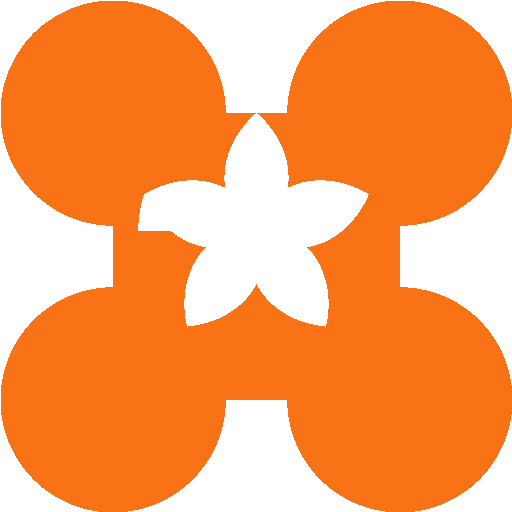
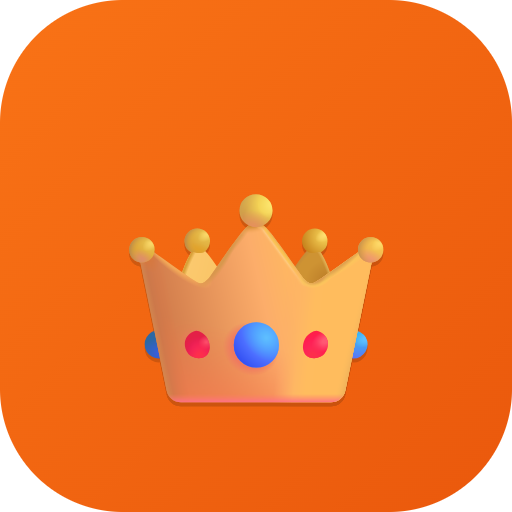
修复 iOS 卡顿、安装提示重复、更新 App 图标
- CSS: 移除 overscroll-behavior 和 -webkit-overflow-scrolling（导致 iOS 滚动卡顿）
- InstallPrompt: sessionStorage 改为 localStorage，关闭浏览器后不再重复弹窗
- PWA 图标: 重新设计为橙底皇冠图标，匹配"女王厨房"主题

diff --git a/小李厨房/src/components/layout/InstallPrompt.tsx b/小李厨房/src/components/layout/InstallPrompt.tsx
@@ -12,9 +12,12 @@ export default function InstallPrompt() {
   const [deferred, setDeferred] = useState<any>(null)
 
   useEffect(() => {
-    // Check if already in standalone mode
+    // Already in standalone mode (added to home screen) — don't show
     if (window.matchMedia('(display-mode: standalone)').matches) return
-    if (navigator.standalone) return
+    if ((navigator as any).standalone) return
+
+    // Already dismissed permanently
+    if (localStorage.getItem('install-dismissed')) return
 
     // Listen for Chrome beforeinstallprompt
     const handler = (e: Event) => {
@@ -24,13 +27,9 @@ export default function InstallPrompt() {
     }
     window.addEventListener('beforeinstallprompt', handler)
 
-    // Fallback: show after 3 seconds on Android (Huawei may not fire beforeinstallprompt)
+    // Fallback: show after 3 seconds on Android
     const isAndroid = /android/i.test(navigator.userAgent)
-    const timer = isAndroid ? setTimeout(() => {
-      if (!sessionStorage.getItem('install-dismissed')) {
-        setShow(true)
-      }
-    }, 3000) : undefined
+    const timer = isAndroid ? setTimeout(() => setShow(true), 3000) : undefined
 
     return () => {
       window.removeEventListener('beforeinstallprompt', handler)
@@ -51,7 +50,7 @@ export default function InstallPrompt() {
 
   const handleDismiss = () => {
     setShow(false)
-    sessionStorage.setItem('install-dismissed', '1')
+    localStorage.setItem('install-dismissed', '1')
   }
 
   if (!show) return null

diff --git a/小李厨房/src/index.css b/小李厨房/src/index.css
@@ -31,9 +31,6 @@ body {
   color: #1a1a1a;
   -webkit-font-smoothing: antialiased;
   -moz-osx-font-smoothing: grayscale;
-  overscroll-behavior: none;
-  overscroll-behavior-y: none;
-  -webkit-overflow-scrolling: touch;
 }
 
 #root {